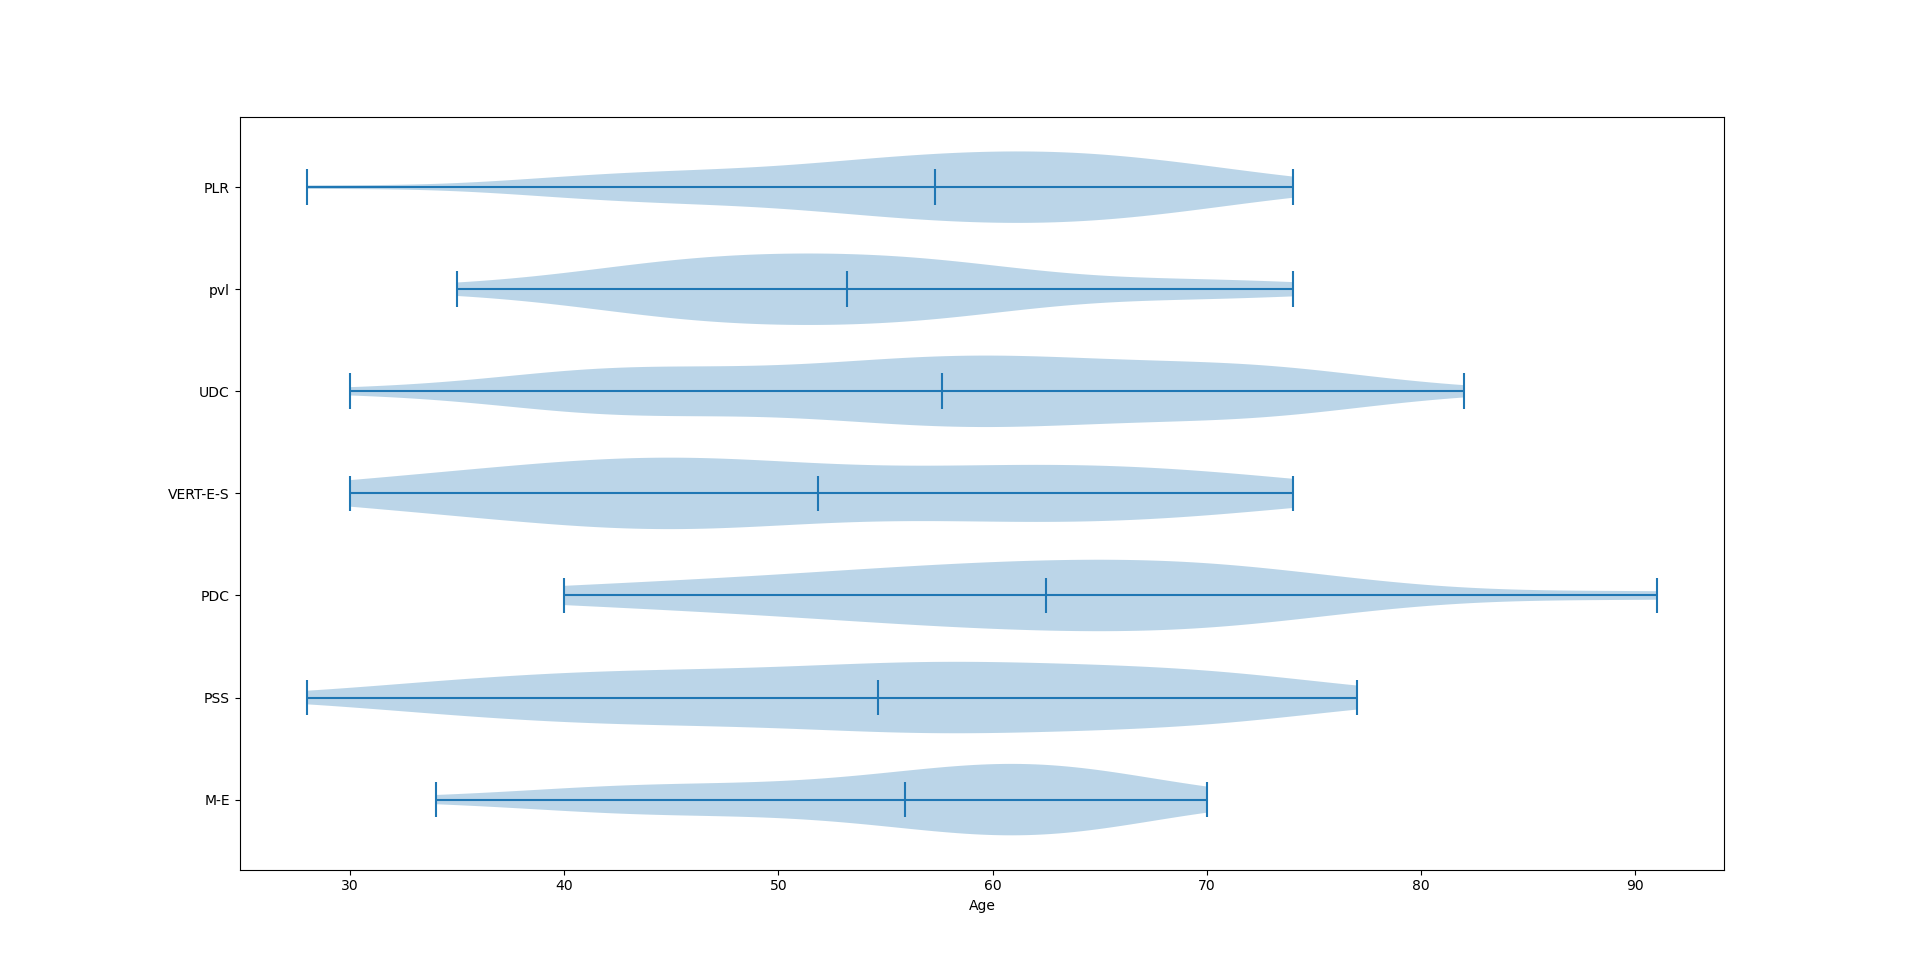
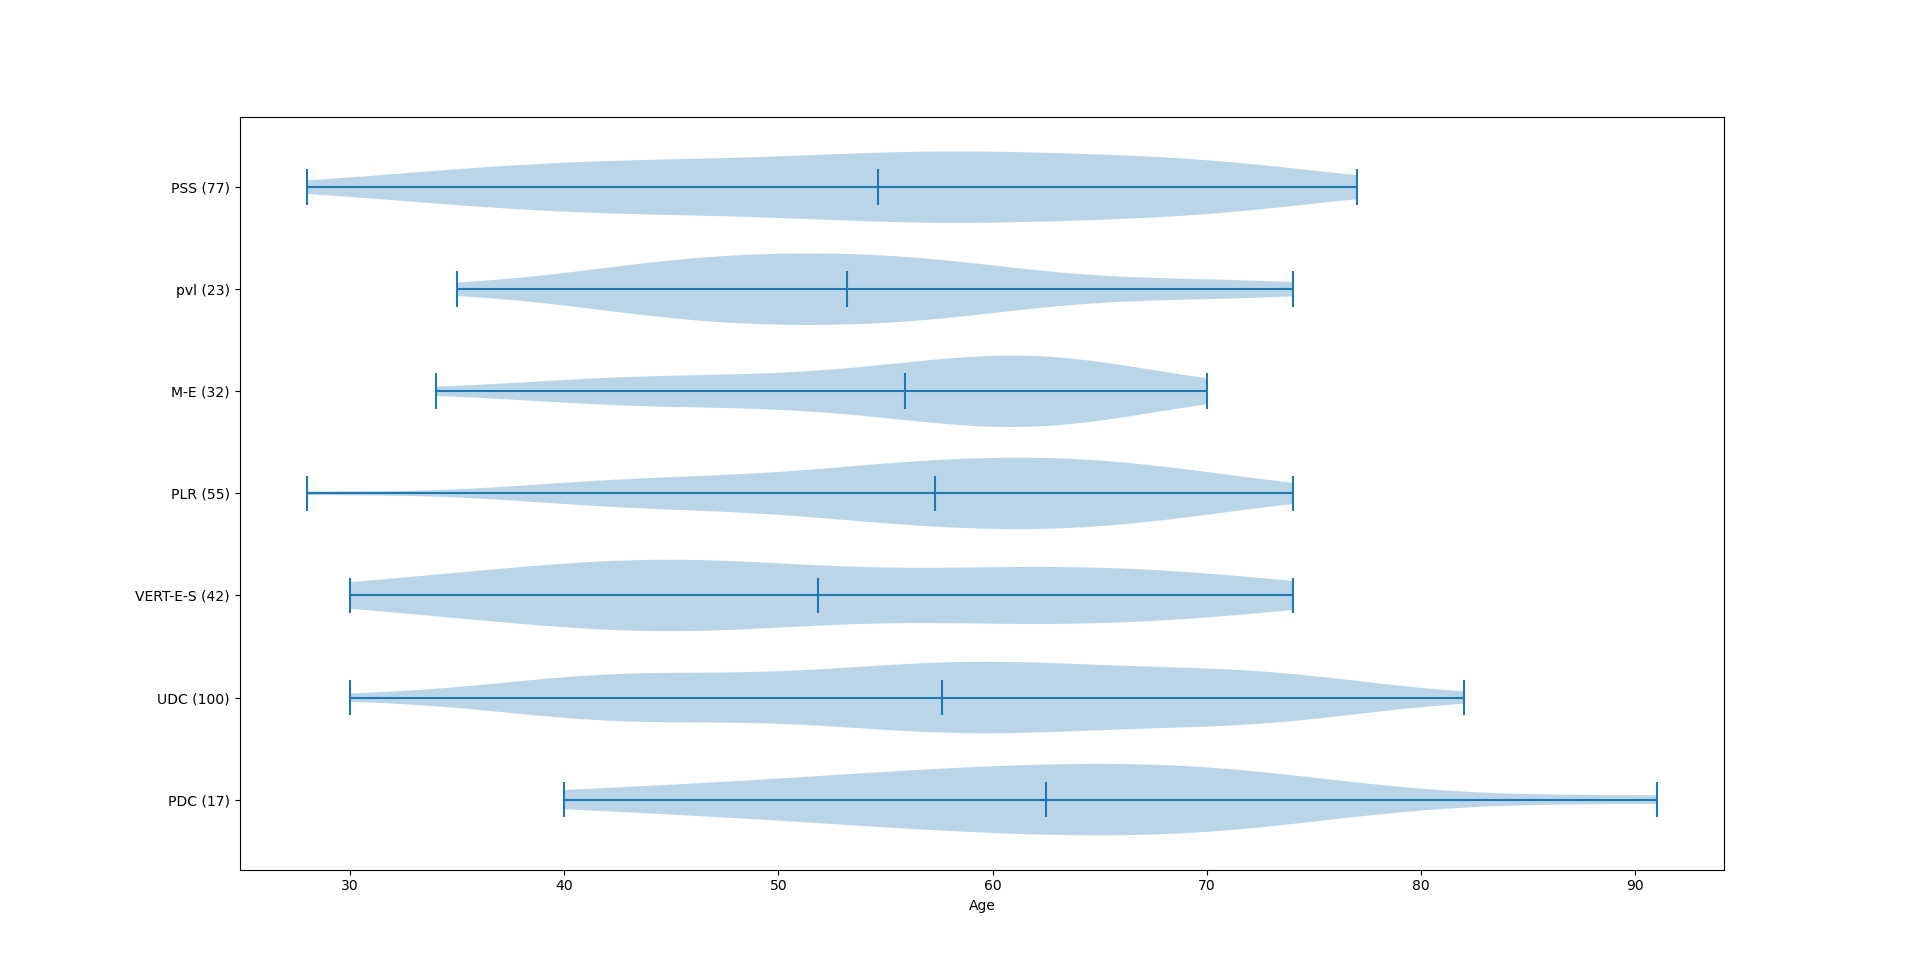
Add nbs

diff --git a/08_party_age_comparison/comparison.py b/08_party_age_comparison/comparison.py
@@ -2,7 +2,7 @@ import pandas as pd
 import matplotlib.pyplot as plt
 import numpy as np
 
-parlementaires = pd.read_csv(f'donnees/parlementaires.csv', index_col=0).T
+parlementaires = pd.read_csv(f'../donnees/parlementaires.csv', index_col=0).T
 parties = set(parlementaires['party'])
 
 ages = []
@@ -17,11 +17,11 @@ for party in parties:
     parlementaires_party['age'] = parlementaires_party['year'].apply(lambda year: 2022 - year)
 
     ages.append(list(parlementaires_party['age']))
-    data_parties.append(party)
+    data_parties.append(f'{party} ({len(parlementaires_party)})')
 
 fig, ax = plt.subplots()
-#ax.violinplot(tuple(ages), vert=False, widths=.7, quantiles=[[.25, .5, .75]]*len(ages))
-ax.violinplot(tuple(ages), vert=False, widths=.7, showmeans=True)
+ax.violinplot(tuple(ages), vert=False, widths=.7, quantiles=[[.25, .5, .75]]*len(ages))
+#ax.violinplot(tuple(ages), vert=False, widths=.7, showmeans=True)
 ax.set_xlabel('Age')
 ax.set_yticks(np.arange(1, len(data_parties) + 1), labels=data_parties)
 plt.show()
